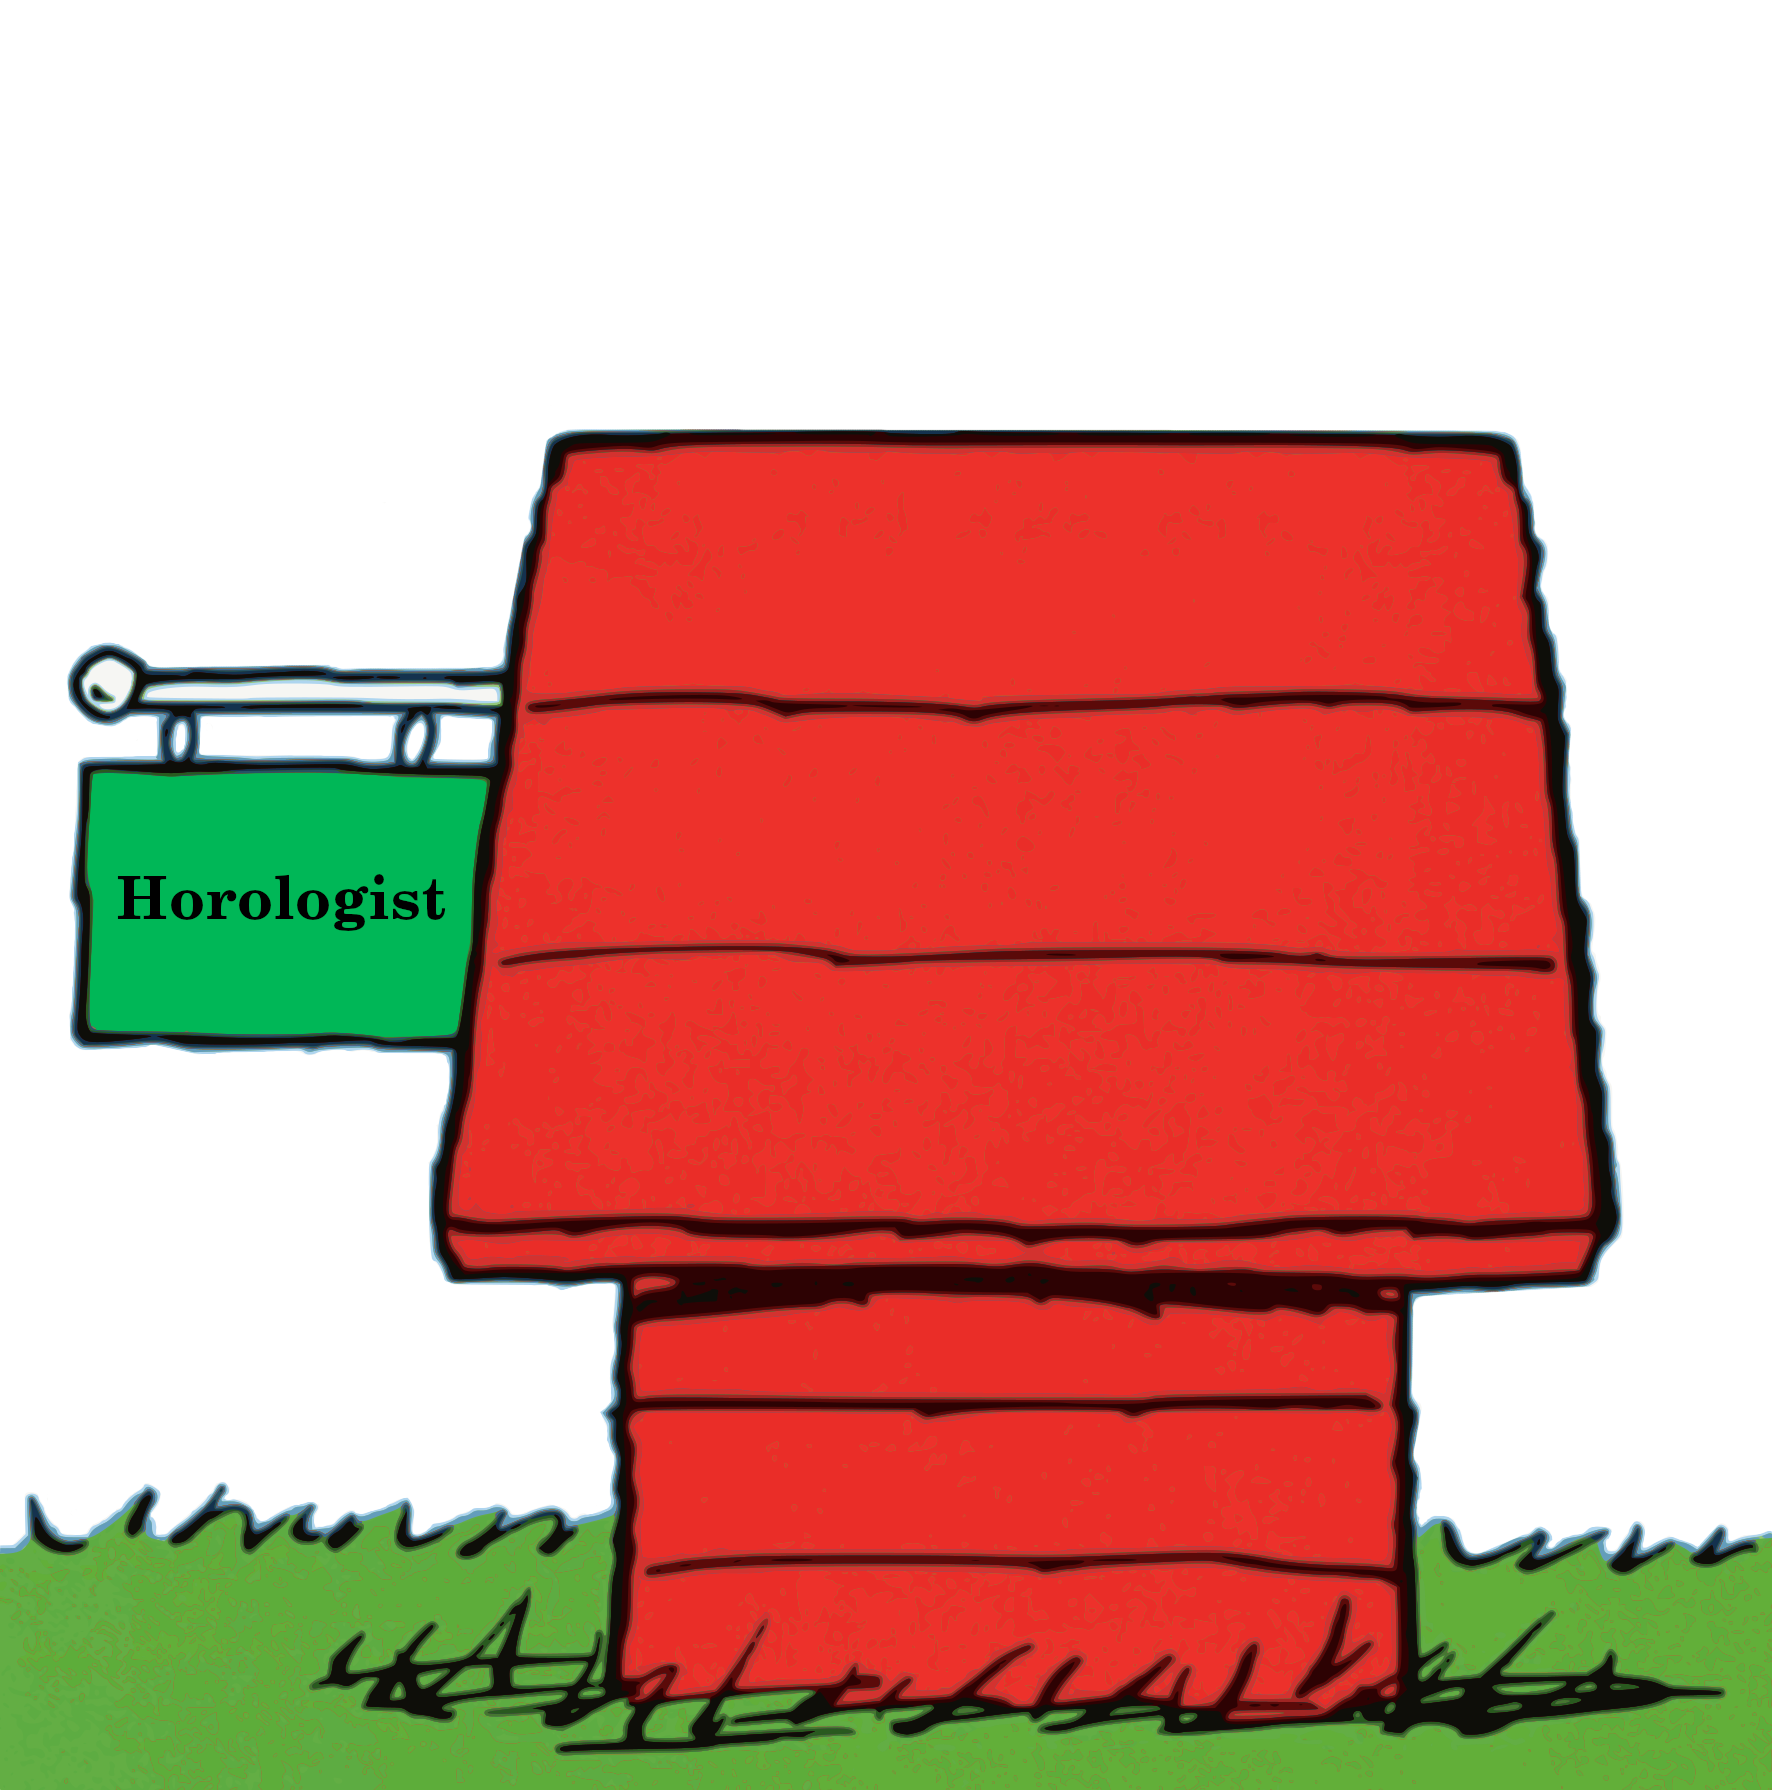
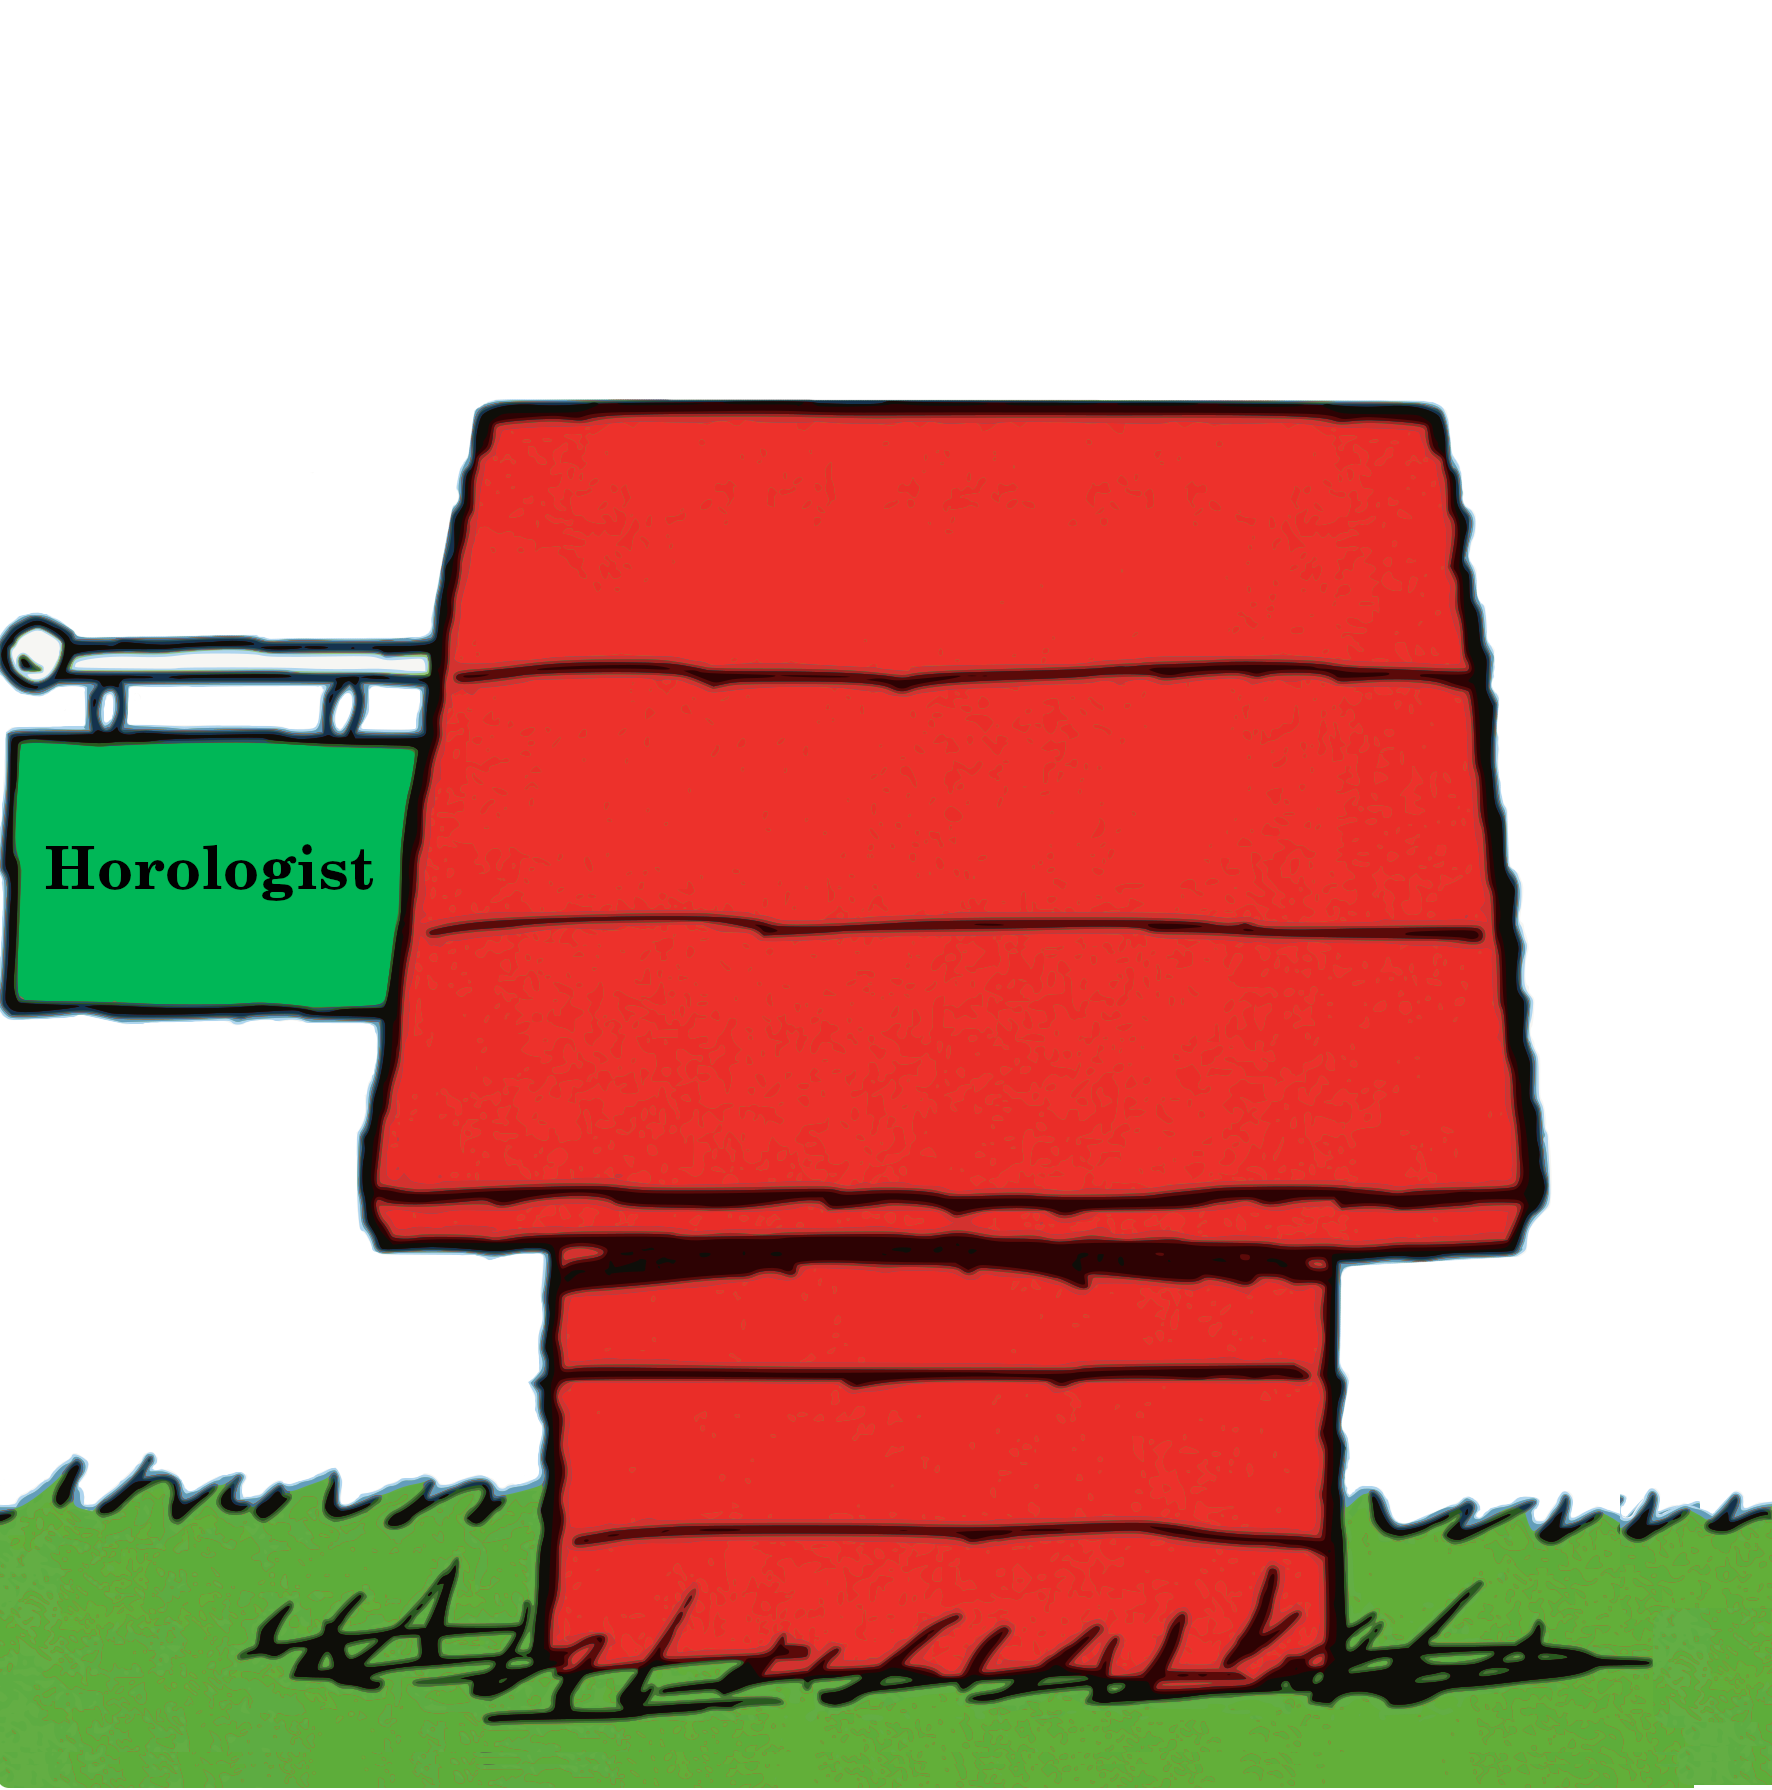
fixed position issues

Changed region(s): [[0.0, 0.2151, 1.0, 1.0]]

diff --git a/src/app/analog-clock/analog-clock.component.ts b/src/app/analog-clock/analog-clock.component.ts
@@ -30,6 +30,7 @@ export class AnalogClockComponent implements OnInit {
   public woodstockImg: string;
   public snoopyImg: string;
   public bubbleImg: string;
+  public backgroundImgPos: number;
 
   constructor() { }
 
@@ -70,8 +71,11 @@ export class AnalogClockComponent implements OnInit {
     this.snoopyImg = minutes >= 0 && minutes < 8 ? "url('../../assets/images/upright.png')" : minutes >= 8 && minutes < 15 ? "url('../../assets/images/rightsit.png')" : minutes >= 15 && minutes < 20 ? "url('../../assets/images/right.png')" : minutes >= 20 && minutes < 30 ? "url('../../assets/images/downright.png')" : minutes >=30 && minutes < 40 ? "url('../../assets/images/downleft.png')" : minutes >= 40 && minutes < 45 ? "url('../../assets/images/left.png')" : minutes >= 45 && minutes < 52 ? "url('../../assets/images/leftsit.png')" : minutes >= 52 && minutes <= 59 ? "url('../../assets/images/upleft.png')" : "url('../../assets/images/upright.png')"
     this.snoopy.nativeElement.style.backgroundImage = this.snoopyImg
 
-    this.backgroundImg = hours > 6 && hours < 18 ? "url('../../assets/images/daytime.jpg')" : "url('../../assets/images/nighttime.jpg')"
+    this.backgroundImg = hours >= 6 && hours < 18 ? "url('../../assets/images/daytime.jpg')" : hours >= 18 && hours < 20 ? "url('../../assets/images/sunset.jpg')" : "url('../../assets/images/nighttime.jpg')"
     this.background.nativeElement.style.backgroundImage = this.backgroundImg
+
+    this.backgroundImgPos = minutes >= 15 && minutes < 45 ? 43 : 40
+    this.snoopy.nativeElement.style.top = this.backgroundImgPos + '%'
   }
   playAudio(){
     // let audio = new Audio();

diff --git a/src/app/analog-clock/analog-clock.component.scss b/src/app/analog-clock/analog-clock.component.scss
@@ -73,7 +73,7 @@ h2 {
   background-repeat: no-repeat;
   background-position: center bottom;
   position: absolute;
-  top: 40%;
+  top: 43%;
 }
 
 .clock::before
@@ -215,6 +215,7 @@ h2 {
   height: 100%;
   position: absolute;
   left: calc(50% - 0.5em);
+  font-size: 1.5em;
 }
 
 .num div {
